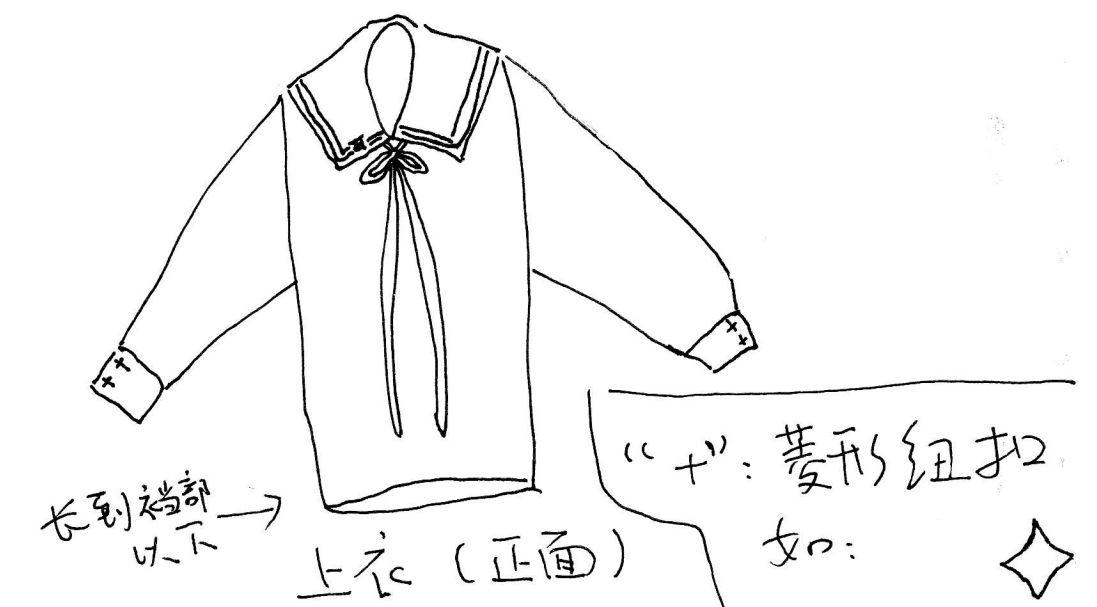
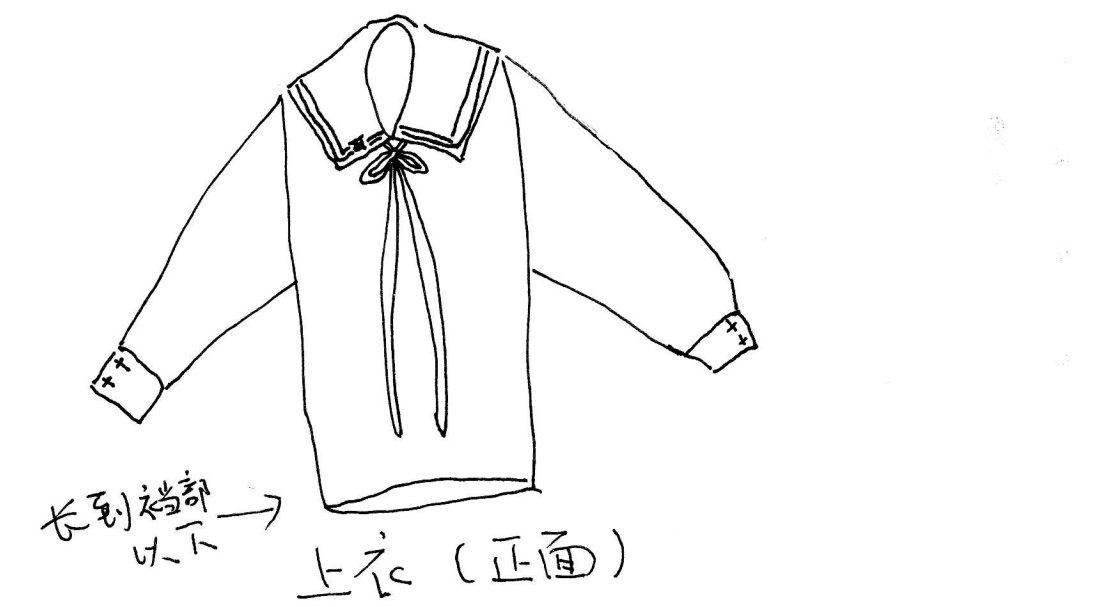
edit moke-2021-birthday-costume.md for details on sailor suit part

diff --git a/CostumeDesigns/moke-2021-birthday-costume.md b/CostumeDesigns/moke-2021-birthday-costume.md
@@ -1,7 +1,7 @@
 zhǐ
 # 徵羽摩柯 2021 生贺服装逆向分析与设计
 
-ver. 0.5
+ver. 0.6
 
 by leisquid
 
@@ -45,13 +45,13 @@ by leisquid
 
 ![](./resources/moke2021cos-003.png)
 
-襟线样式为金色二本，宽度为 8±1 mm 为宜；特别地，在衣领正面的左下方（穿着着角度的右下方）有角色的专属 logo。如下图。
+襟线样式为金色二本，材质为接近丝光的可反光材质，宽度为 8±1 mm 为宜；特别地，在衣领正面的左下方（穿着着角度的右下方）有角色的专属 logo。如下图。
 
 ![](./resources/moke2021cos-001.png)
 
 ![](./resources/moke2021cos-004.png)
 
-logo 图案及位置尽量与官方设计一致。如下图。
+logo 图案及位置尽量与官方设计一致，最好使用刺绣缝制并使用丝光绣线。如下图。
 
 ![](./resources/moke2021cos-009.png)
 
@@ -61,11 +61,13 @@ logo 图案及位置尽量与官方设计一致。如下图。
 
 领巾为通用样式的**深蓝色**飘带，打结挂在衣领内。
 
-如果为了不用每次穿衣时都要重新系丝带的话，建议可以把围住衣领内部的部分设计成松紧带，每次穿着时拉伸套入即可。
+如果为了不用每次穿衣时都要重新系丝带的话，建议把围住衣领内部的部分设计成松紧带，每次穿着时拉伸套入即可。松紧带可参考下图。
+
+![](./resources/moke2021cos-006.jpg)
 
 #### 2.1.4 袖口
 
-袖口收紧，并配有两颗垂直布局的**菱形纽扣**。纽扣的形状为底面为菱形的四棱锥。
+袖口收紧，并配有两颗垂直布局的**小尺寸的四芒星纽扣**，**作为装饰**而不是袖口的扣子。
 
 ### 2.2 帽子
 
@@ -77,7 +79,7 @@ logo 图案及位置尽量与官方设计一致。如下图。
 
 ### 2.3 项圈
 
-项圈为黑色皮质，正前方有金色八角形（六芒星？）的吊坠，左右两边相邻处有两颗金色小豆状小扣。见上 2.1.2 节中的图。
+项圈为黑色皮质，正前方有金色八角形（六芒星？）的吊坠，左右两边相邻处有两颗金色小豆状小扣。见上 2.1.2 节中的图（以 “+” 号表示）。
 
 ## 3. 下身
 
@@ -128,6 +130,10 @@ logo 图案及位置尽量与官方设计一致。如下图。
 + 仅使用现成材料制作的教程视频：<https://www.bilibili.com/video/BV11t42147xb/>
 
 ## 变更履历
+
+### ver 0.6, \'24.4.23
+
++ 修改关于襟线材质、袖口装饰、领巾样式的描述。
 
 ### ver 0.5, \'24.4.7
 
